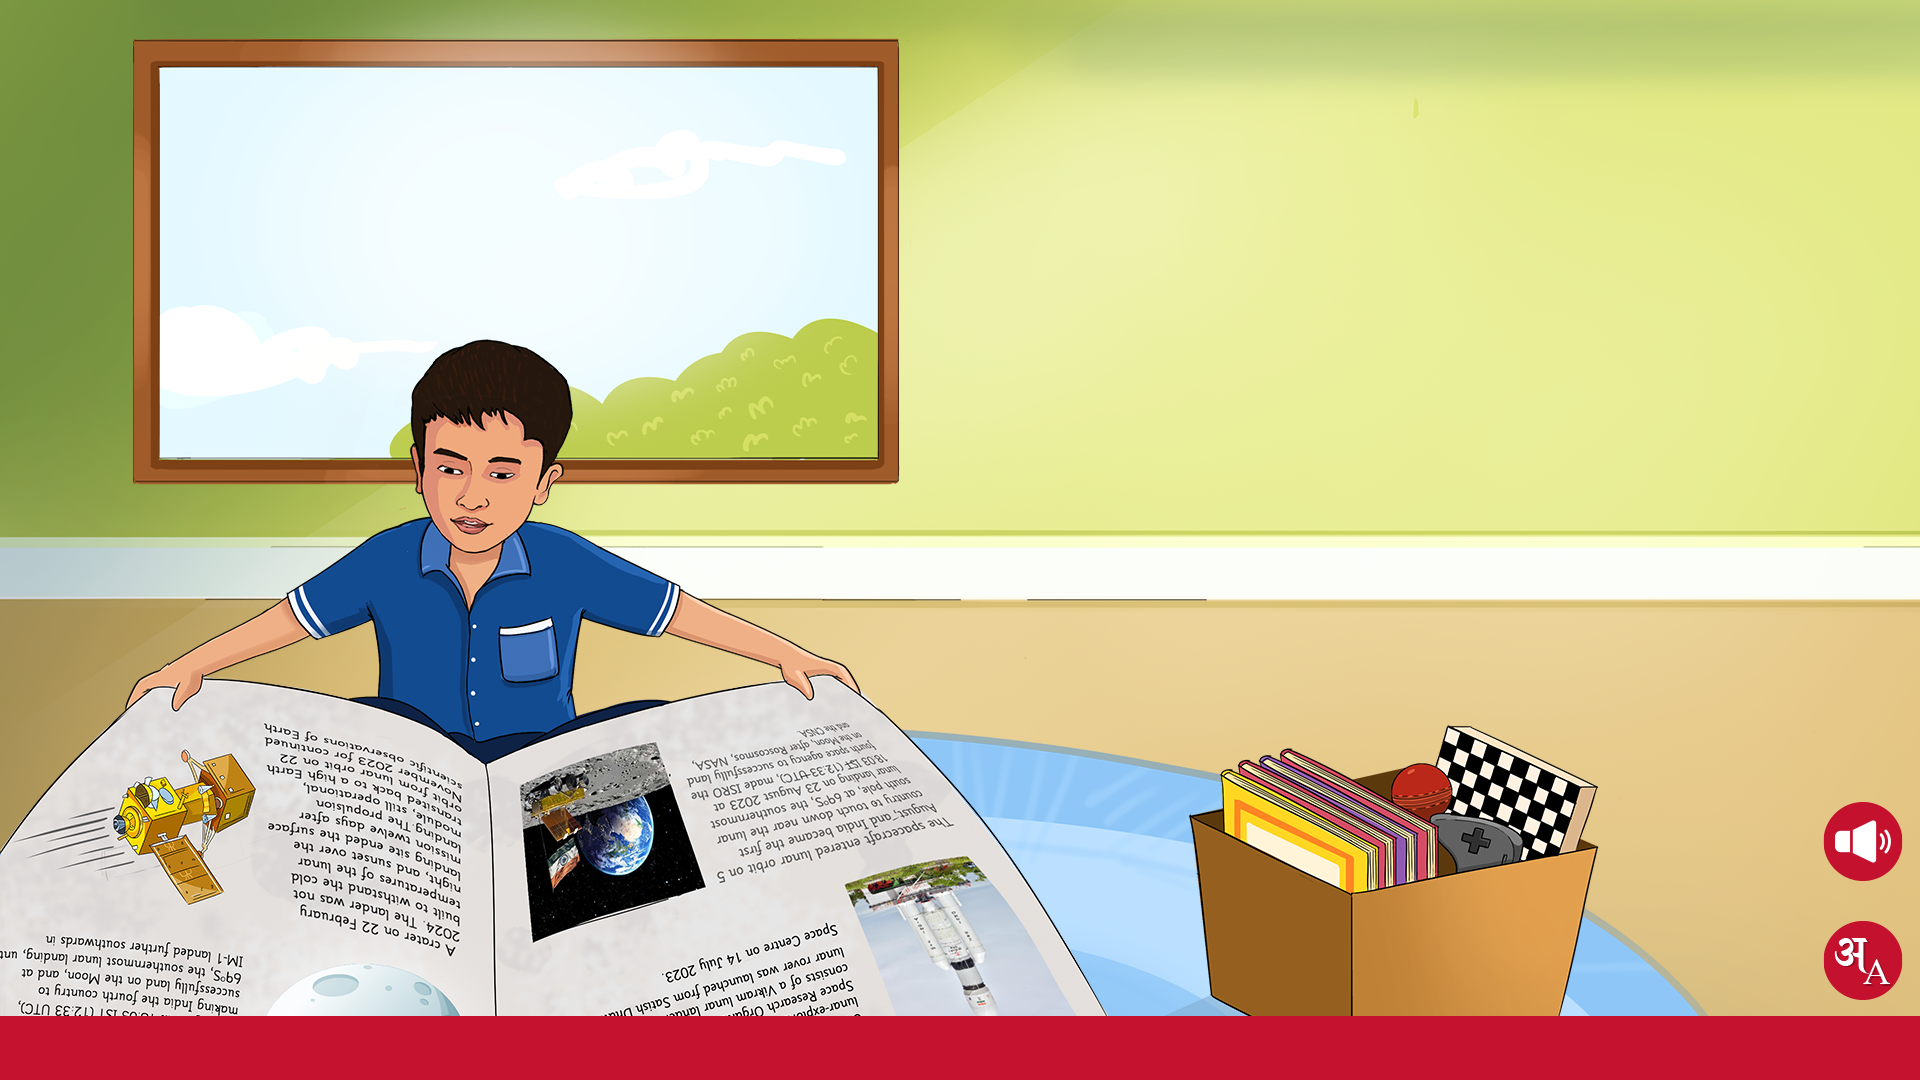
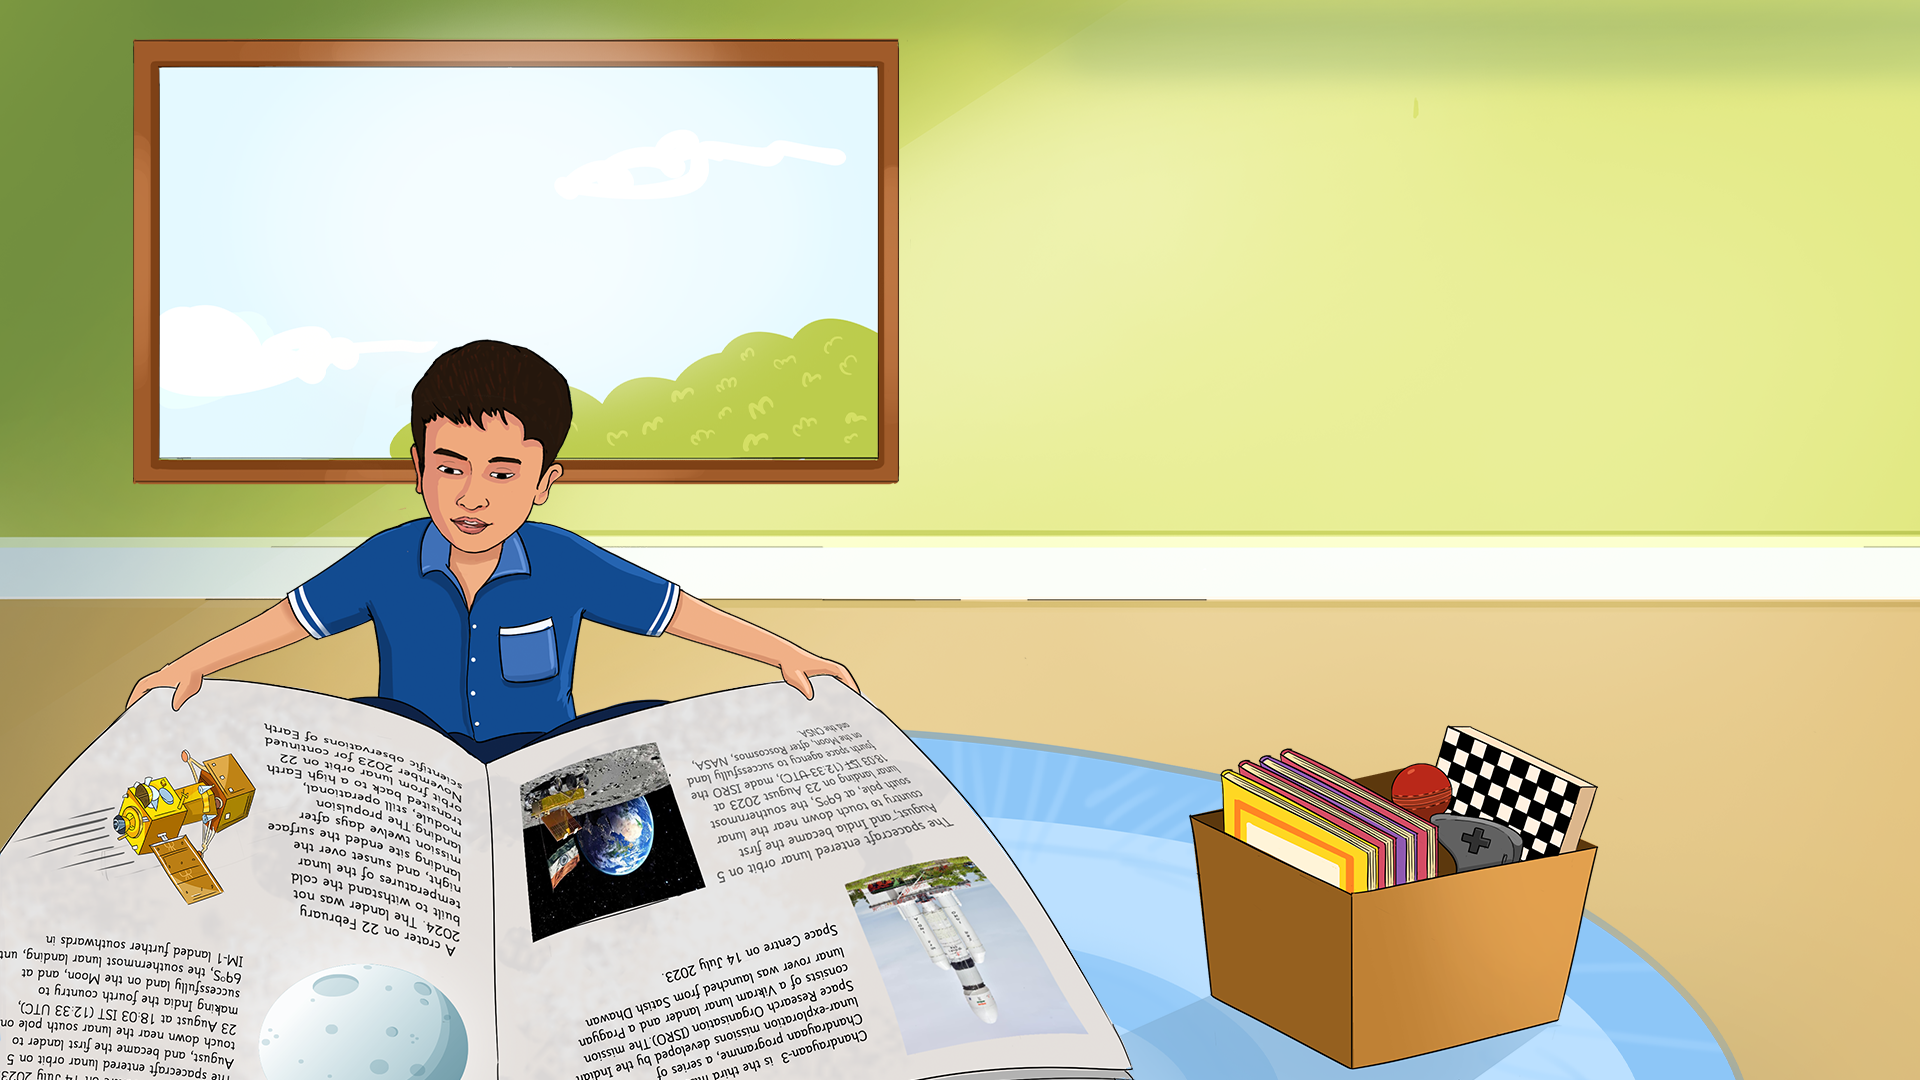
New Assests Added Page Content Updated

Changed region(s): [[0.0, 0.8556, 1.0, 1.0], [0.9375, 0.7333, 1.0, 0.825]]

diff --git a/src/index.css b/src/index.css
@@ -11,31 +11,53 @@
 }
 
 @layer components {
+  body {
+    overflow: hidden;
+  }
+
   .bgHome {
     background-image: url("./assets/images/home/bg-home-2.png");
     background-repeat: no-repeat;
-    position: absolute;
   }
 
   .page1 {
-    background-image: url("./assets/images/pages/page1aBG.png");
+    background-image: url("./assets/images/pages/page1BG.png");
     background-repeat: no-repeat;
   }
 
+  .page3 {
+    background-image: url("./assets/images/pages/page4BG.png");
+    background-repeat: no-repeat;
+    background-size: cover;
+  }
+
+  .page4 {
+    background-image: url("./assets/images/pages/page3BG.png");
+    background-repeat: no-repeat;
+    background-size: cover;
+  }
 
   @media screen and (min-width: 1024px) {
-
     body {
       overflow: hidden;
     }
 
     .page1 {
-      background-image: url("./assets/images/pages/page1aBG.png");
+      background-image: url("./assets/images/pages/page1BG.png");
       background-repeat: no-repeat;
       background-size: cover;
-      position: absolute;
-      width: 100%;
+    }
+
+    .page3 {
+      background-image: url("./assets/images/pages/page4BG.png");
+      background-repeat: no-repeat;
+      background-size: cover;
+    }
+
+    .page4 {
+      background-image: url("./assets/images/pages/page3BG.png");
+      background-repeat: no-repeat;
+      background-size: cover;
     }
   }
-
 }

diff --git a/src/Pages/Page1/Page1.jsx b/src/Pages/Page1/Page1.jsx
@@ -15,12 +15,12 @@ export default function Page1() {
   };
 
   const nextPageHandler = () => {
-    navigate("/books/page1/");
+    navigate("/books/page2/");
   };
 
   return (
     <>
-      <section className="w-full h-full page1 bg-contain overflow-hidden">
+      <section className="w-full h-full page1 bg-cover overflow-hidden">
         <div className="grid grid-cols-10 gap-4">
           {/* <div className="col-span-6">
             <p className="p-12 text-lg font-medium">
@@ -31,7 +31,7 @@ export default function Page1() {
               Veer loves to hear these stories.
             </p>
           </div> */}
-          <div className="col-span-4 flex items-start justify-start">
+          <div className="col-span-4 flex items-end justify-end">
             <img src={satellite} alt="Satellite" className="w-40 h-40 pt-8 mx-96 animate-pulse" />
           </div>
         </div>

diff --git a/src/main.jsx b/src/main.jsx
@@ -2,17 +2,29 @@ import { StrictMode } from "react";
 import { createRoot } from "react-dom/client";
 import "./index.css";
 import { createBrowserRouter, RouterProvider } from "react-router-dom";
-import { Home, Page1 } from "./Pages/index.js";
+import { Home, Page1, Page2, Page3, Page4 } from "./Pages/index.js";
 
 const router = createBrowserRouter([
   {
     path: "/",
-    element: <Home />
+    element: <Home />,
   },
   {
     path: "/books/page1/",
-    element: <Page1 />
-  }
+    element: <Page1 />,
+  },
+  {
+    path: "/books/page2/",
+    element: <Page2 />,
+  },
+  {
+    path: "/books/page3/",
+    element: <Page3 />,
+  },
+  {
+    path: "/books/page4",
+    element: <Page4 />,
+  },
 ]);
 
 createRoot(document.getElementById("root")).render(

diff --git a/src/Pages/Page2/Page2.jsx b/src/Pages/Page2/Page2.jsx
@@ -1,0 +1,31 @@
+import { useNavigate } from "react-router-dom";
+import FooterPage from "../../Components/FooterPage";
+
+export default function Page2() {
+  const navigate = useNavigate();
+
+  const indexBTNHandler = () => {
+    navigate("/");
+  };
+
+  const onPrevPageHandler = () => {
+    navigate("/books/page1/");
+  };
+
+  const onNextPageHandler = () => {
+    navigate("/books/page3/");
+  };
+
+  return (
+    <>
+      <section className="w-full h-full bg-slate-100 bg-contain overflow-hidden"></section>
+      <FooterPage
+        onPrev={onPrevPageHandler}
+        onClick={indexBTNHandler}
+        onNext={onNextPageHandler}
+        pageNum1="03"
+        pageNum2="04"
+      />
+    </>
+  );
+}

diff --git a/src/Pages/Page3/Page3.jsx b/src/Pages/Page3/Page3.jsx
@@ -1,0 +1,31 @@
+import { useNavigate } from "react-router-dom";
+import FooterPage from "../../Components/FooterPage";
+
+export default function Page3() {
+  const navigate = useNavigate();
+
+  const indexBTNHandler = () => {
+    navigate("/");
+  };
+
+  const onPrevPageHandler = () => {
+    navigate("/books/page2/");
+  };
+
+  const onNextPageHandler = () => {
+    navigate("/books/page4/");
+  };
+
+  return (
+    <>
+      <section className="w-[100vw] h-[100vh] page3 bg-cover overflow-hidden"></section> 
+      <FooterPage
+        onPrev={onPrevPageHandler}
+        onClick={indexBTNHandler}
+        onNext={onNextPageHandler}
+        pageNum1="05"
+        pageNum2="06"
+      />
+    </>
+  );
+}

diff --git a/src/Pages/Page4/Page4.jsx b/src/Pages/Page4/Page4.jsx
@@ -1,0 +1,31 @@
+import { useNavigate } from "react-router-dom";
+import FooterPage from "../../Components/FooterPage";
+
+export default function Page4() {
+  const navigate = useNavigate();
+
+  const indexBTNHandler = () => {
+    navigate("/");
+  };
+
+  const onPrevPageHandler = () => {
+    navigate("/books/page3/");
+  };
+
+  const onNextPageHandler = () => {
+    navigate("/books/page4/");
+  };
+
+  return (
+    <>
+      <section className="w-[100vw] h-[100vh] page4 bg-cover overflow-hidden"></section>
+      <FooterPage
+        onPrev={onPrevPageHandler}
+        onClick={indexBTNHandler}
+        onNext={onNextPageHandler}
+        pageNum1="07"
+        pageNum2="08"
+      />
+    </>
+  );
+}

diff --git a/dev-dist/sw.js b/dev-dist/sw.js
@@ -82,7 +82,7 @@ define(['./workbox-380bc8ab'], (function (workbox) { 'use strict';
     "revision": "3ca0b8505b4bec776b69afdba2768812"
   }, {
     "url": "index.html",
-    "revision": "0.917m86p4qe8"
+    "revision": "0.h7oe153g6k"
   }], {});
   workbox.cleanupOutdatedCaches();
   workbox.registerRoute(new workbox.NavigationRoute(workbox.createHandlerBoundToURL("index.html"), {

diff --git a/src/Pages/index.js b/src/Pages/index.js
@@ -1,2 +1,5 @@
 export { default as Home } from "./Home";
 export { default as Page1 } from "./Page1/Page1";
+export { default as Page2 } from "./Page2/Page2";
+export { default as Page3 } from "./Page3/Page3";
+export { default as Page4 } from "./Page4/Page4";
